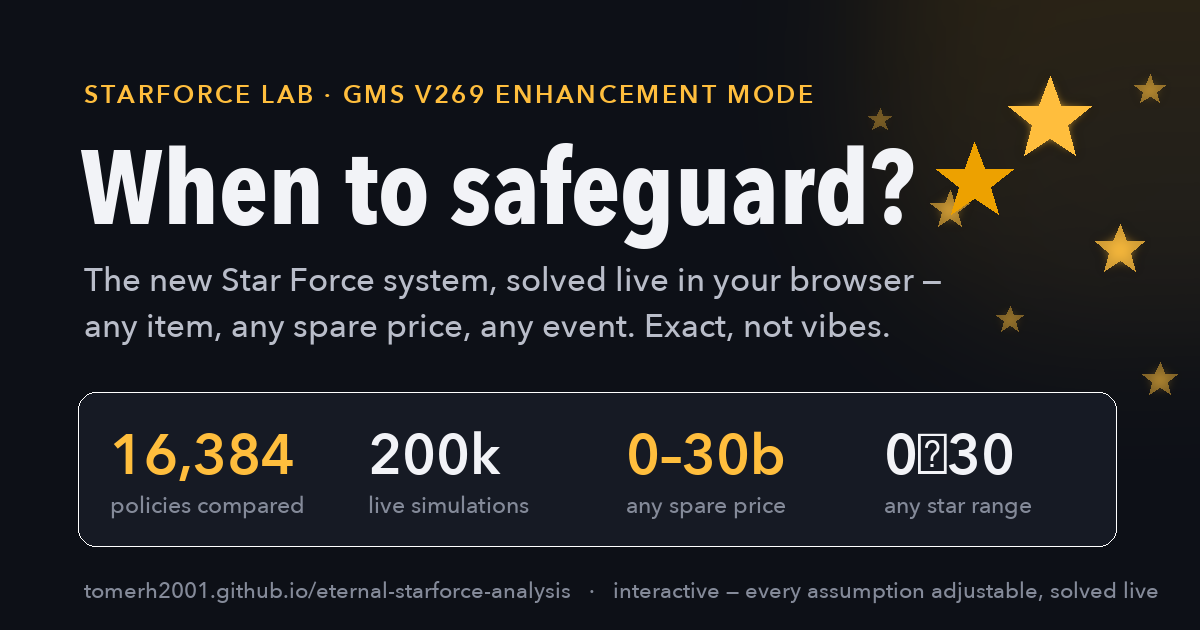
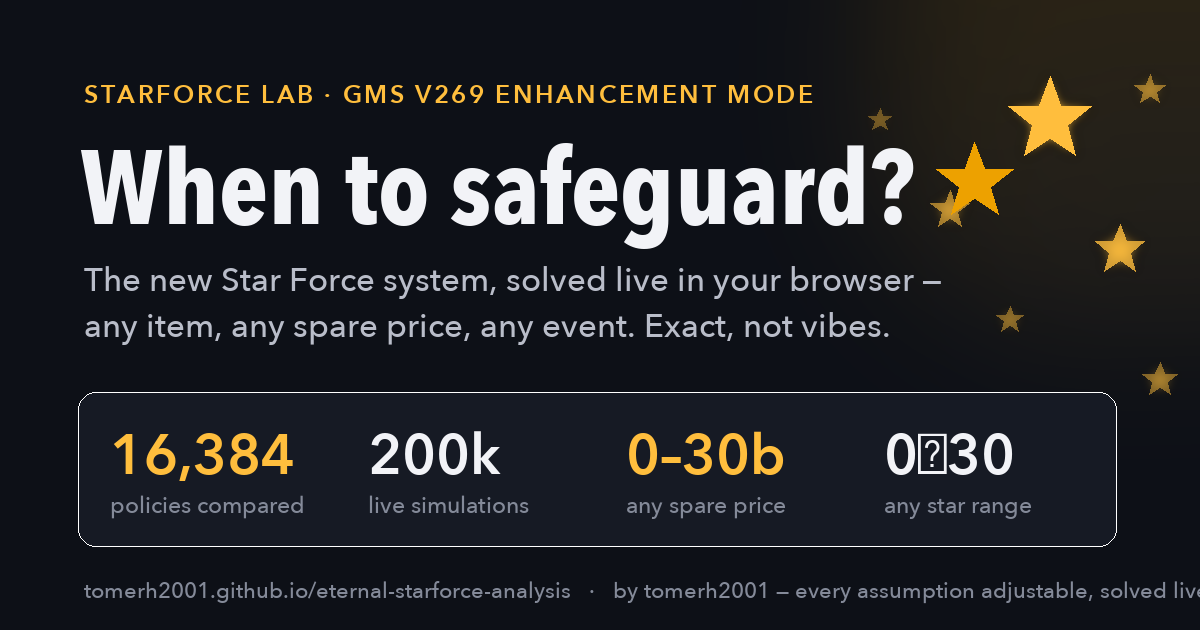
Add creator byline and GitHub source link
Top byline bar (created by + repo link), footer attribution, og-card credit.

Changed region(s): [[0.5242, 0.9048, 1.0, 0.9651]]

diff --git a/index.html b/index.html
@@ -54,7 +54,16 @@
   * { box-sizing:border-box; }
   body { background:var(--page); color:var(--ink);
     font:16px/1.55 system-ui,-apple-system,"Segoe UI",sans-serif; margin:0; }
-  .wrap { max-width:960px; margin:0 auto; padding:40px 22px 72px; }
+  .wrap { max-width:960px; margin:0 auto; padding:28px 22px 72px; }
+  .topbar { display:flex; justify-content:space-between; align-items:center; gap:8px 18px;
+    flex-wrap:wrap; font-size:13.5px; color:var(--muted); margin-bottom:30px; padding-right:48px; }
+  .topbar a { color:var(--ink2); text-decoration:none; }
+  .topbar a:hover { color:var(--accent); }
+  .topbar .gh { display:inline-flex; align-items:center; gap:7px; white-space:nowrap;
+    border:1px solid var(--border); border-radius:999px; padding:6px 13px; background:var(--surface); }
+  .topbar .gh svg { width:15px; height:15px; fill:currentColor; }
+  .topbar .by { white-space:nowrap; }
+  .topbar .by b { color:var(--ink2); font-weight:600; }
 
   h1,h2 { font-family:"Avenir Next Condensed","Avenir Next","Helvetica Neue","Arial Narrow",system-ui,sans-serif;
     text-wrap:balance; letter-spacing:.01em; }
@@ -168,6 +177,13 @@
 
 
 <div class="wrap">
+<div class="topbar">
+  <span class="by">⭐ Created by <a href="https://github.com/tomerh2001"><b>tomerh2001</b></a></span>
+  <a class="gh" href="https://github.com/tomerh2001/eternal-starforce-analysis" aria-label="Source code and analysis on GitHub">
+    <svg viewBox="0 0 16 16" aria-hidden="true"><path d="M8 0C3.58 0 0 3.58 0 8c0 3.54 2.29 6.53 5.47 7.59.4.07.55-.17.55-.38 0-.19-.01-.82-.01-1.49-2.01.37-2.53-.49-2.69-.94-.09-.23-.48-.94-.82-1.13-.28-.15-.68-.52-.01-.53.63-.01 1.08.58 1.23.82.72 1.21 1.87.87 2.33.66.07-.52.28-.87.51-1.07-1.78-.2-3.64-.89-3.64-3.95 0-.87.31-1.59.82-2.15-.08-.2-.36-1.02.08-2.12 0 0 .67-.21 2.2.82.64-.18 1.32-.27 2-.27.68 0 1.36.09 2 .27 1.53-1.04 2.2-.82 2.2-.82.44 1.1.16 1.92.08 2.12.51.56.82 1.27.82 2.15 0 3.07-1.87 3.75-3.65 3.95.29.25.54.73.54 1.48 0 1.07-.01 1.93-.01 2.2 0 .21.15.46.55.38A8.01 8.01 0 0 0 16 8c0-4.42-3.58-8-8-8z"/></svg>
+    Source &amp; analysis on GitHub
+  </a>
+</div>
 <header>
   <p class="eyebrow">Starforce lab · GMS v269 · live calculator</p>
   <h1>When to safeguard, solved — for any item, any spare price, any event</h1>
@@ -348,7 +364,9 @@
 </section>
 
 <footer>
-  Exact value iteration + linear solves per policy, live Monte Carlo for spreads · GMS v269 · not affiliated with Nexon.
+  Created by <a href="https://github.com/tomerh2001">tomerh2001</a> ·
+  <a href="https://github.com/tomerh2001/eternal-starforce-analysis">source &amp; reference analysis on GitHub</a> ·
+  exact policy iteration + linear solves, live Monte Carlo for spreads · GMS v269 · not affiliated with Nexon.
   <span id="footAlt"></span>
 </footer>
 </div>
